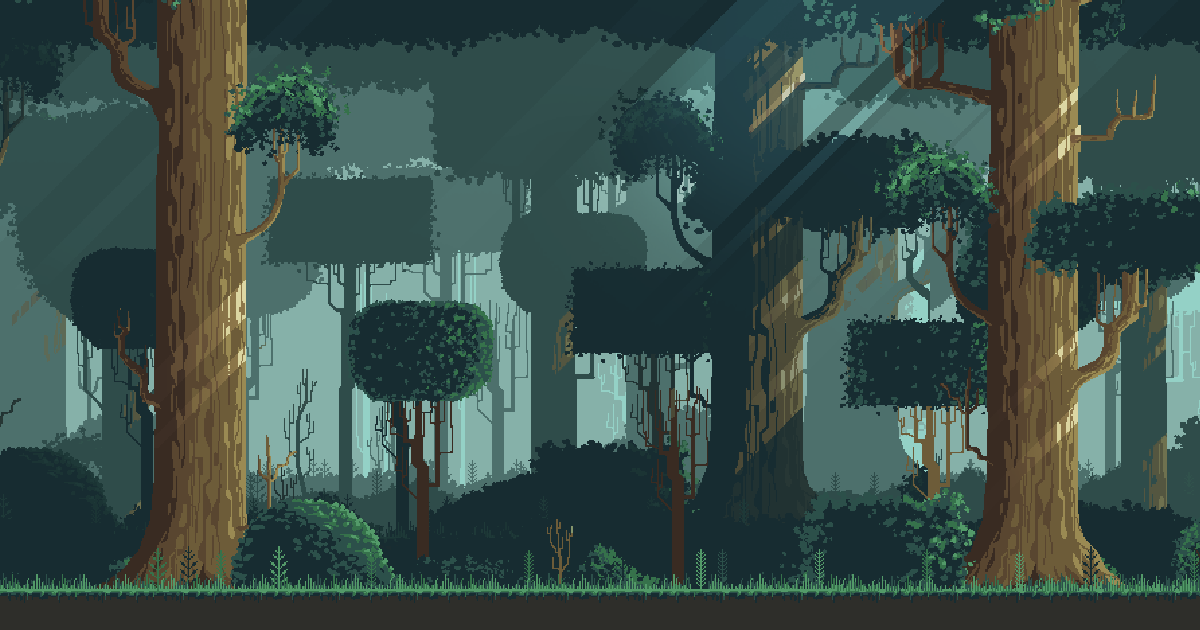
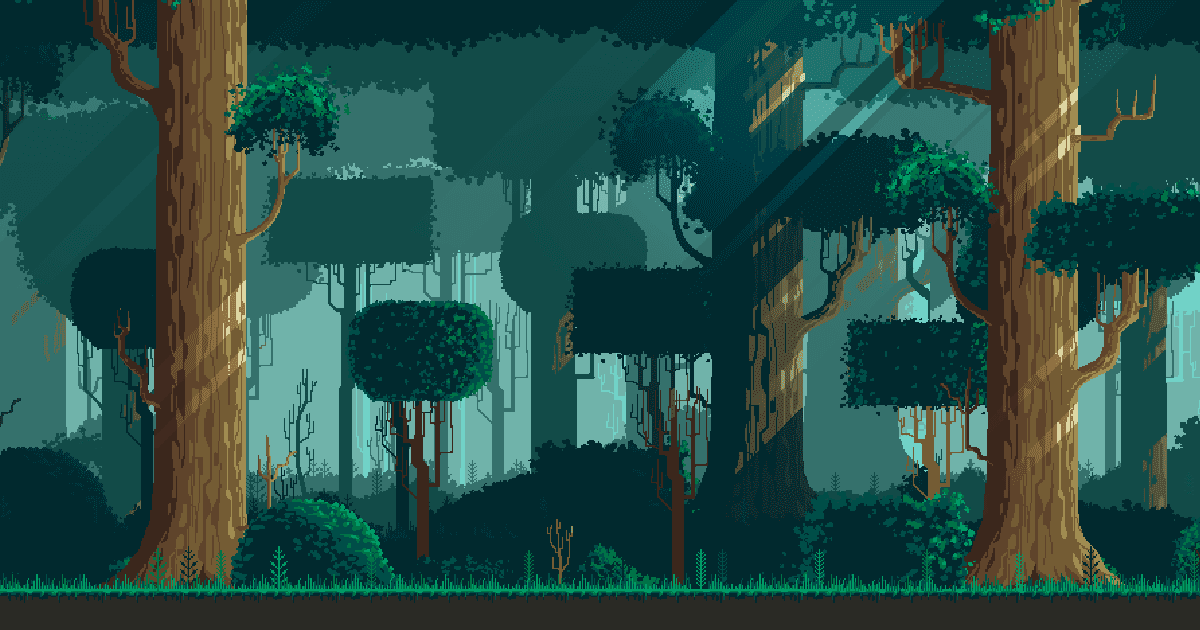
corrigiendo errores y optimizando imagenes

diff --git a/js/script.js b/js/script.js
@@ -27,20 +27,15 @@ class Personaje {
 
 }
 
-// class Usuario {
-//     constructor(nombre, puntos){
-//         this.nombre = nombre;
-//         this.puntos = puntos;
-//     }
-// }
-
-//variables
+//VARIABLES
 
 let nivel1 = new Nivel(niveles[0]);
 let nivel2 = new Nivel(niveles[1]);
 let jones = new Personaje(personajesArray[0]);
 let valorInput;
 let arrayPuntajes;
+
+//VARIABLES DOM
 
 const contenedor = document.querySelector('.contenedor');
 const botonInstrucciones = document.querySelector('.botonInstrucciones');
@@ -57,7 +52,7 @@ const inputNombre = document.querySelector('.inputNombre');
 const botones = document.querySelector('.botones');
 
 
-//boton de "jugar" (permite seleccionar un personaje, y luego el modo de juego);
+//PERMITE SELECCIONAR EL PERSONE Y MODO DE JUEGO
 
 botonJugar.onclick  = () =>{  
     divPersonajes.style.display = "flex";
@@ -71,7 +66,7 @@ divPersonaje1.onclick = () =>{
     modeladoCards();
 }
 
-//boton de instrucciones (muestra las mismas)
+//MUESTRA LAS INSTRUCCIONES
 
 botonInstrucciones.onfocus = () =>{
     instrucciones.style.display = "flex";
@@ -81,7 +76,7 @@ botonInstrucciones.onblur = () =>{
     instrucciones.style.display = 'none';
 }
 
-// puntuaciones
+//TOP PUNTUACIONES
 
 puntuaciones.onfocus = () =>{
     rellenoPuntuaciones(); 
@@ -93,7 +88,7 @@ puntuaciones.onblur = () =>{
     listaPuntajes.innerHTML = ''; 
 }
 
-//funcion que le da los estilos a los divs dentro del html
+//PROPORCIONA ESTILOS A LOS DIVS DENTRO DEL HTML
 
 let modeladoCards = () =>{
     divPersonaje1.innerHTML = `<h2>${nivel1.nombre}</h2>
@@ -114,7 +109,7 @@ let modeladoCards = () =>{
     `
 }
 
-// completa la tabla de puntuaciones
+//COMPLETA EL TOP DE PUNTUACIONES
 
 let rellenoPuntuaciones = () =>{   
     const localNombre = localStorage.getItem('nombreUsuario');
@@ -149,7 +144,7 @@ let rellenoPuntuaciones = () =>{
         }
         const p = document.createElement("p");
         p.className = "ultimaPuntuacion";
-        p.innerHTML = `<p>${localNombre}, tu ultima puntuacion fue ${localPuntuacion}</p>`;
+        p.innerHTML = `<p>${localNombre} ;) , tu ultima puntuacion fue ${localPuntuacion}</p>`;
         listaPuntajes.append(p);
     })
     .catch((error) => {
@@ -157,7 +152,7 @@ let rellenoPuntuaciones = () =>{
     });
 }
 
-// muestra el menu luego de ingresar el nombre del usuario
+//VERIFICA EL INPUT DEL LOGIN
 
 loginBoton.addEventListener('click', (e) => {
     e.preventDefault();
@@ -191,7 +186,7 @@ loginBoton.addEventListener('click', (e) => {
     
 })
 
-// verifica si es el mismo usuario o uno distinto
+//VERIFICA SI EL USUARIO ES EL MISMO 
 
 const checkUsuario = () =>{
     const nombreUsuario = localStorage.getItem('nombreUsuario');
@@ -208,7 +203,7 @@ const checkUsuario = () =>{
     }
 }
 
-// funciones para esconder y mostrar los elementos
+//MUESTRA Y ESCONDE ELEMENTOS
 
 const mostrarMenu = () =>{
     const loginUsuario = document.querySelector('.loginUsuario');
@@ -226,6 +221,5 @@ const mostrarInput = () =>{
     loginUsuario.style.display = 'none';
 }
 
-//cuando carga llama a la funcion checkUsuario
 
-window.onload = checkUsuario;
+window.onload = checkUsuario; //LLAMA A LA FUNCION AL CARGAR LA PESTAÑA

diff --git a/juego/scriptJuego.js b/juego/scriptJuego.js
@@ -29,6 +29,9 @@ const botonReiniciar = document.querySelector('.reiniciar');
 const info = document.querySelector('.info');
 const canvas = document.querySelector('#canvas');
 const contexto = canvas.getContext('2d');
+const divPersonaje2 = document.querySelector('.personajeModo2');
+const contenedorJuego = document.querySelector('.contenedorGeneral');
+const tituloJunglaInfinita = document.querySelector('.junglaInfinita');
 
 //FUNCIONES PARA DIBUJAR LOS ELEMENTOS SOBRE EL CANVAS
 
@@ -171,7 +174,16 @@ function actualizarEstadisticas (){
   <h2>VELOCIDAD DEL NIVEL: ${nivel.velocidad}</h2>
   <h3>SALTOS: ${contadorSaltos}</h3>
   `;
-}
+}  
+
+//ANIMACION AL INICIAR EL JUEGO
+
+const e = document.getElementById("junglaInfinita"); 
+e.addEventListener("animationend", (ev) => {
+  if (ev.type === "animationend") {
+    e.style.display = "none";
+  }
+}, false);
 
 // INICIALIZA CANVAS Y GUARDA LAS IMAGENES
 
@@ -182,9 +194,9 @@ const inicializar = () =>{
   imgEnemigo = new Image();
   imgFondo = new Image();
 
-  imgPersonaje.src = '../imgs/pruebaGif.png';
+  imgPersonaje.src = '../imgs/personajePrincipalCanvas.png';
   imgEnemigo.src = '../imgs/enemigo.png';
-  imgFondo.src = '../imgs/prueba.png';
+  imgFondo.src = '../imgs/fondo.png';
 }
 
 //BUCLE PRINCIPAL

diff --git a/css/juego.css b/css/juego.css
@@ -8,10 +8,6 @@
     user-select: none;
 }
 
-canvas {
-   box-shadow: 0rem 0rem .5rem rgb(25, 58, 25);
-}
-
 .estadisticas{
     height: 40vh;
     background-color: #2e2e2a;
@@ -52,6 +48,11 @@ button{
     cursor: pointer;
     margin: 1rem;
     width: 70%;
+    
+}
+
+button:focus{
+    outline: none;
 }
 
 a{
@@ -82,5 +83,50 @@ button:hover{
 .contenedorGeneral{
     display: flex;
     flex-direction: column;
+    display: block;
 }
+
+#junglaInfinita{
+    margin: auto 0;
+    font-size: 5rem;
+    display: flex;
+    height: 100%;
+    width: 100%;
+    position: absolute;
+    display: flex;
+    justify-content: center;
+    align-items: center;
+    text-align: center;
+    color: whitesmoke;
+    background-color:rgba(0, 0, 0, 0.884);
+    text-transform: uppercase;
+    letter-spacing: 0.3rem;
+    animation: fadeCards;
+    animation-duration: 3s;
+    animation-timing-function: initial;
+}
+
+
+@keyframes fadeCards {
+    50% {
+        opacity: 1;
+      }
+      100% {
+        height: 0%;
+        opacity: 0;
+        height: 10%;
+      }
+      /* from{
+        opacity: 1;
+      }
+      to{
+        opacity: 0;
+      } */
+}
+   
+
+
+      
+
+
 

diff --git a/juego/juego.html b/juego/juego.html
@@ -17,10 +17,15 @@
 </head>
 <body onload="inicializar();">
 
+    <div id="junglaInfinita">
+        <p>Jungla Infinita</p>
+     </div>
+
    <div class="contenedorGeneral">
+
      <!-- contenedor canvas para desarrollo del juego -->
     
-     <canvas id="canvas" width="1920px" height="600px""></canvas>
+     <canvas id="canvas" width="1920px" height="600px"></canvas>
     
      <!-- estadisticas generales del juego -->
     
@@ -35,8 +40,8 @@
          </div>
      </div>
      
-     <script src="https://kit.fontawesome.com/68fff929ff.js" crossorigin="anonymous"></script>
-     <script src="scriptJuego.js"></script>
    </div>
+   <script src="https://kit.fontawesome.com/68fff929ff.js" crossorigin="anonymous"></script>
+    <script src="scriptJuego.js"></script>
 </body>
 </html>

diff --git a/index.html b/index.html
@@ -52,7 +52,7 @@
             <div class="instrucciones">
                 <div class="cardMovimiento">
                     <h2>Movimiento</h2>
-                    <img src="imgs/gif23.gif" alt="" class="gif23">
+                    <img src="imgs/gifInstrucciones.gif" alt="" class="gifInstrucciones">
                     <p>Presiona "ESPACIO" para que Jones salte</p>
                 </div>
                 <div class="cardSenderoAventura">

diff --git a/css/main.css b/css/main.css
@@ -184,7 +184,7 @@ body{
     width: 100%;
 }
 
-.gif23{
+.gifInstrucciones{
     height: 55%;
 }
 
@@ -311,7 +311,8 @@ body{
 
 .ultimaPuntuacion{
     margin-top: 4rem;
-    color: rgba(35, 83, 35, 0.938);
+    color: rgb(49, 44, 44);
+    text-shadow: .1rem -.1rem 0.1rem white;
     text-align: start;
 }
 
